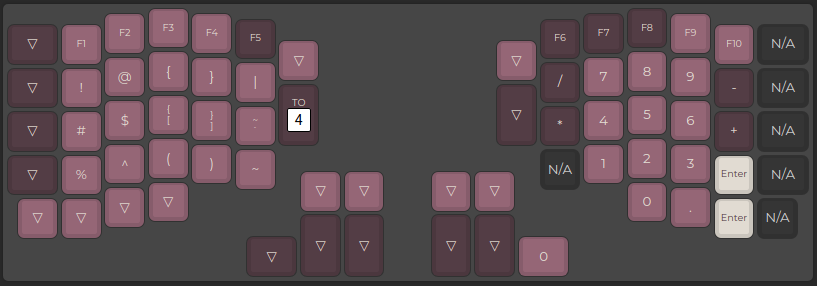
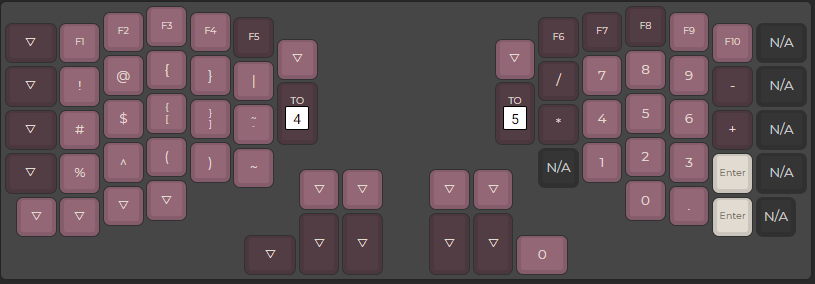
5th layer

diff --git a/README.md b/README.md
@@ -2,11 +2,14 @@
 
 This is my custom [redox](https://github.com/mattdibi/redox-keyboard) keyboard layout. It's basically the default layout with the `left shift` and `alt` keys swapped.
 
-I also added a 4th layer which:
+I added a 4th (gaming) layer which:
 - brings back `left shift` to the left side,
 - switches `enter` and `space` with `backspace` and `delete`, 
 - removes the `super` key,
 - replaces `page up` and `page down` with `m` and `i`.
+
+The 5th layout is a modified version of [RSTHD](https://xsznix.wordpress.com/2016/05/16/introducing-the-rsthd-layout/).
+
 
 Made with [config.qmk.fm](https://config.qmk.fm/).
 
@@ -17,3 +20,4 @@ Layers 2 and 3 are not shown as they are the same as the [default layout](https:
 ![layer 0 (default)](https://github.com/Purfakt/redox_layout/blob/main/images/layer0.png "Layer 0 (default)")
 ![layer 1](https://github.com/Purfakt/redox_layout/blob/main/images/layer1.png "Layer 1")
 ![layer 4](https://github.com/Purfakt/redox_layout/blob/main/images/layer4.png "Layer 4")
+![layer 5](https://github.com/Purfakt/redox_layout/blob/main/images/layer5.png "Layer 5")
